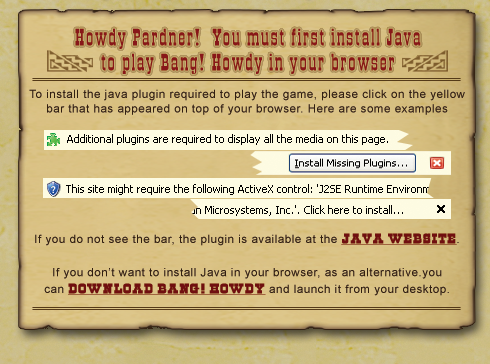
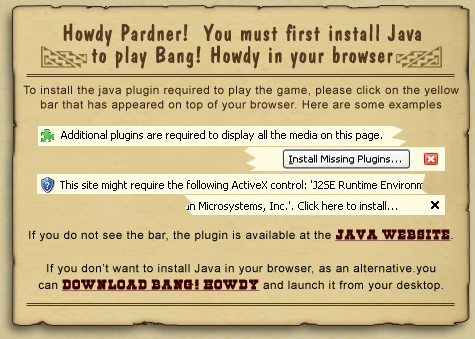
New graphics for launch page layout

diff --git a/pages/css/launch.css b/pages/css/launch.css
@@ -10,7 +10,7 @@
 	margin: 0px;
 	padding:0px;
 	width: 810px;
-	height: 460px;
+	height: 452px;
 }
 
 #LaunchPanel {
@@ -27,11 +27,11 @@
     background-image: url("/images/launch/launch_panel.png");
     position: absolute;
 	top: 0px;
-	left: 0px;
+	left: 10px;
 	margin: 0px;
 	padding:0px;
-	width: 490px;
-	height: 364px;
+	width: 475px;
+	height: 339px;
 	z-index: 2;
 }
 
@@ -42,8 +42,8 @@
   	position: absolute;
  	width: 118px;
   	height: 14px;
-  	top: 232px;
-  	left: 340px;
+  	top: 228px;
+  	left: 344px;
   	margin: 0px;
   	padding: 0px;
   	text-decoration: none;
@@ -65,8 +65,8 @@ a#btnjava:hover {
   	position: absolute;
  	width: 201px;
   	height: 14px;
-  	top: 282px;
-  	left: 65px;
+  	top: 278px;
+  	left: 69px;
   	margin: 0px;
   	padding: 0px;
   	text-decoration: none;
@@ -85,10 +85,10 @@ a#btndl:hover {
 
 #linkaccountB a {
   	position: absolute;
- 	width: 172px;
+ 	width: 174px;
   	height: 23px;
   	top: 66px;
-  	left: 567px;
+  	left: 568px;
   	margin: 0px;
   	padding: 0px;
   	text-decoration: none;
@@ -107,10 +107,10 @@ a#btnaccountB:hover {
 
 #linkscreenB a {
   	position: absolute;
- 	width: 198px;
+ 	width: 201px;
   	height: 24px;
-  	top: 141px;
-  	left: 567px;
+  	top: 140px;
+  	left: 568px;
   	margin: 0px;
   	padding: 0px;
   	text-decoration: none;
@@ -129,9 +129,9 @@ a#btnscreenB:hover {
 
 #linkdlB a {
   	position: absolute;
- 	width: 68px;
-  	height: 20px;
-  	top: 224px;
+ 	width: 93px;
+  	height: 28px;
+  	top: 221px;
   	left: 552px;
   	margin: 0px;
   	padding: 0px;
